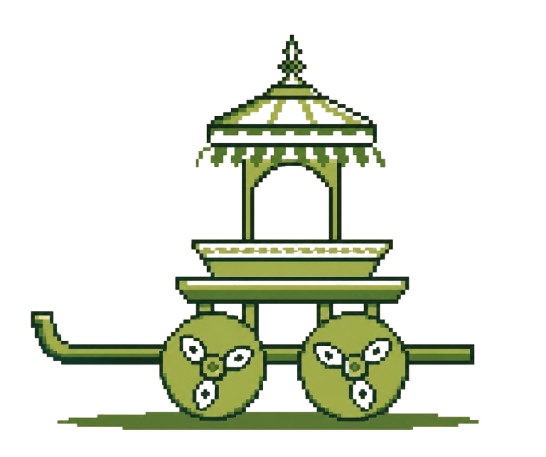
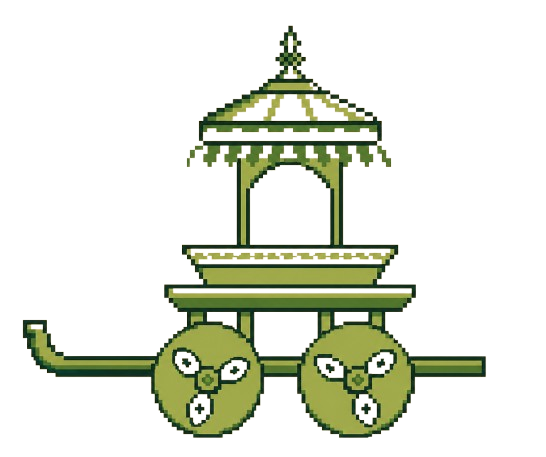
fix: image resolution and border wall collision issue

Changed region(s): [[0.0311, 0.0613, 0.9029, 0.9803]]

diff --git a/src/scenes/Level1Scene.js b/src/scenes/Level1Scene.js
@@ -2,7 +2,7 @@ import Phaser from "phaser";
 import Cell from "../logic/Cell.js";
 import MazeGenerator from "../logic/MazeGenerator.js";
 
-const CELL_SIZE = 40;
+const CELL_SIZE = 45;
 const WALL_THICKNESS = 8;
 const WALL_COLOR = 0xacb64b;
 const BORDER_THICKNESS = 8;
@@ -278,14 +278,30 @@ export default class Level1Scene extends Phaser.Scene {
 
   _createObstacleSprites() {
     const S = CELL_SIZE;
-    const texture = this.textures.get("rath");
-    const source = texture.getSourceImage();
-    const scale = Math.min((S * 2) / source.width, (S * 2) / source.height);
+    const textureKey = "rath-obstacle";
+    const targetWidth = Math.max(1, Math.round(S * 1.5 * 1.2));
+    const targetHeight = Math.max(1, Math.round(S * 1.5));
+
+    if (!this.textures.exists(textureKey)) {
+      const sourceTexture = this.textures.get("rath");
+      const source = sourceTexture.getSourceImage();
+      const renderTexture = this.textures.createCanvas(
+        textureKey,
+        targetWidth,
+        targetHeight,
+      );
+      const ctx = renderTexture.context;
+
+      ctx.imageSmoothingEnabled = true;
+      ctx.imageSmoothingQuality = "high";
+      ctx.clearRect(0, 0, targetWidth, targetHeight);
+      ctx.drawImage(source, 0, 0, targetWidth, targetHeight);
+      renderTexture.refresh();
+    }
 
     for (const obstacle of this.obstacles) {
-      obstacle.sprite = this.add.image(0, 0, "rath");
+      obstacle.sprite = this.add.image(0, 0, textureKey);
       obstacle.sprite.setOrigin(0.5);
-      obstacle.sprite.setScale(scale);
     }
   }
 